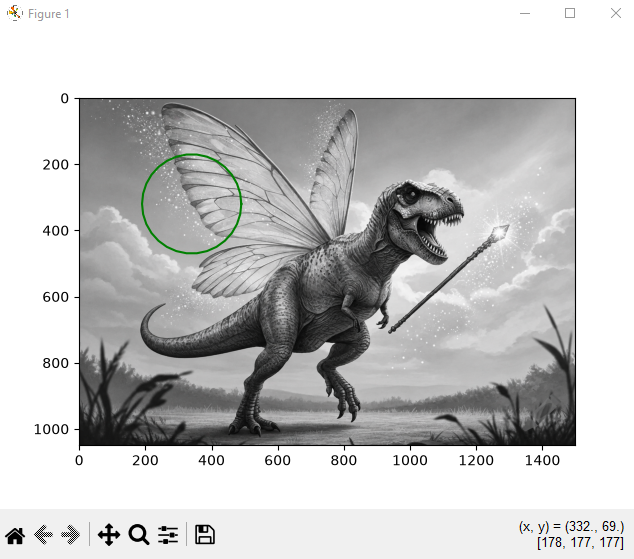
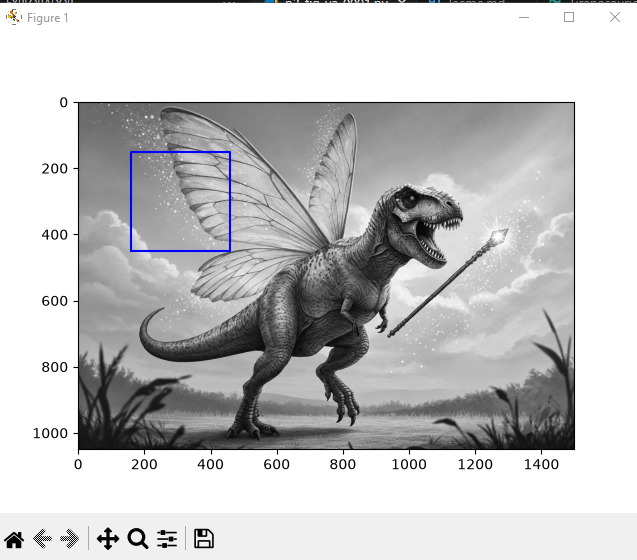
Add files via upload

diff --git a/p3-fig-va-0091.py b/p3-fig-va-0091.py
@@ -6,13 +6,41 @@ import cv2
 # Ian gutierrez NC 0091
 print("Ian gutierrez NC 0091")
 print("UIII Act3 colocar puntos a una imagen  en blanco y negro")
-mi_imagen = cv2.imread('Tiranosaurio.jpg')
-plt.imshow(mi_imagen)
+img_tiranosaurio = cv2.imread('Tiranosaurio.jpg')
+plt.imshow(img_tiranosaurio)
 plt.title('Tiranosaurio y Ian gutierrez  NC 0091')
 plt.show()
 print("+-+-+-+-+ puntos en la imagen +-+-+-+-+")
-plt.imshow(mi_imagen)
-x = [100,100,300,500]
-y = [100,400,500,400]
+plt.imshow(img_tiranosaurio)
+x = [100,100,500,500]
+y = [100,400,500,300]
 plt.scatter(x, y, s= 20,c='red')
+plt.show()
+print("+-+-+-+-+ cuadro azul en la imagen +-+-+-+-+")
+img_tiranosaurio = cv2.imread('Tiranosaurio.jpg')
+plt.imshow(img_tiranosaurio)
+# nuevas cordenadas
+x = [160, 160, 460, 460, 160]
+y = [450, 150, 150, 450, 450]
+plt.plot(x, y, c='blue')
+plt.show()
+print("+-+-+-+-+ circulo verde en la imagen +-+-+-+-+")
+
+img_tiranosaurio = cv2.imread('Tiranosaurio.jpg')
+plt.imshow(cv2.cvtColor(img_tiranosaurio, cv2.COLOR_BGR2RGB))
+
+N = 30  # lados del polígono
+
+x = np.zeros((N+1,))
+y = np.zeros((N+1,))
+
+(xc, yc) = (340, 320)
+r = 150  # radio
+
+for i in range(N+1):
+    t = 2*np.pi/N*i
+    x[i] = xc + r*np.cos(t)
+    y[i] = yc + r*np.sin(t)
+
+plt.plot(x, y, c='green')
 plt.show()
